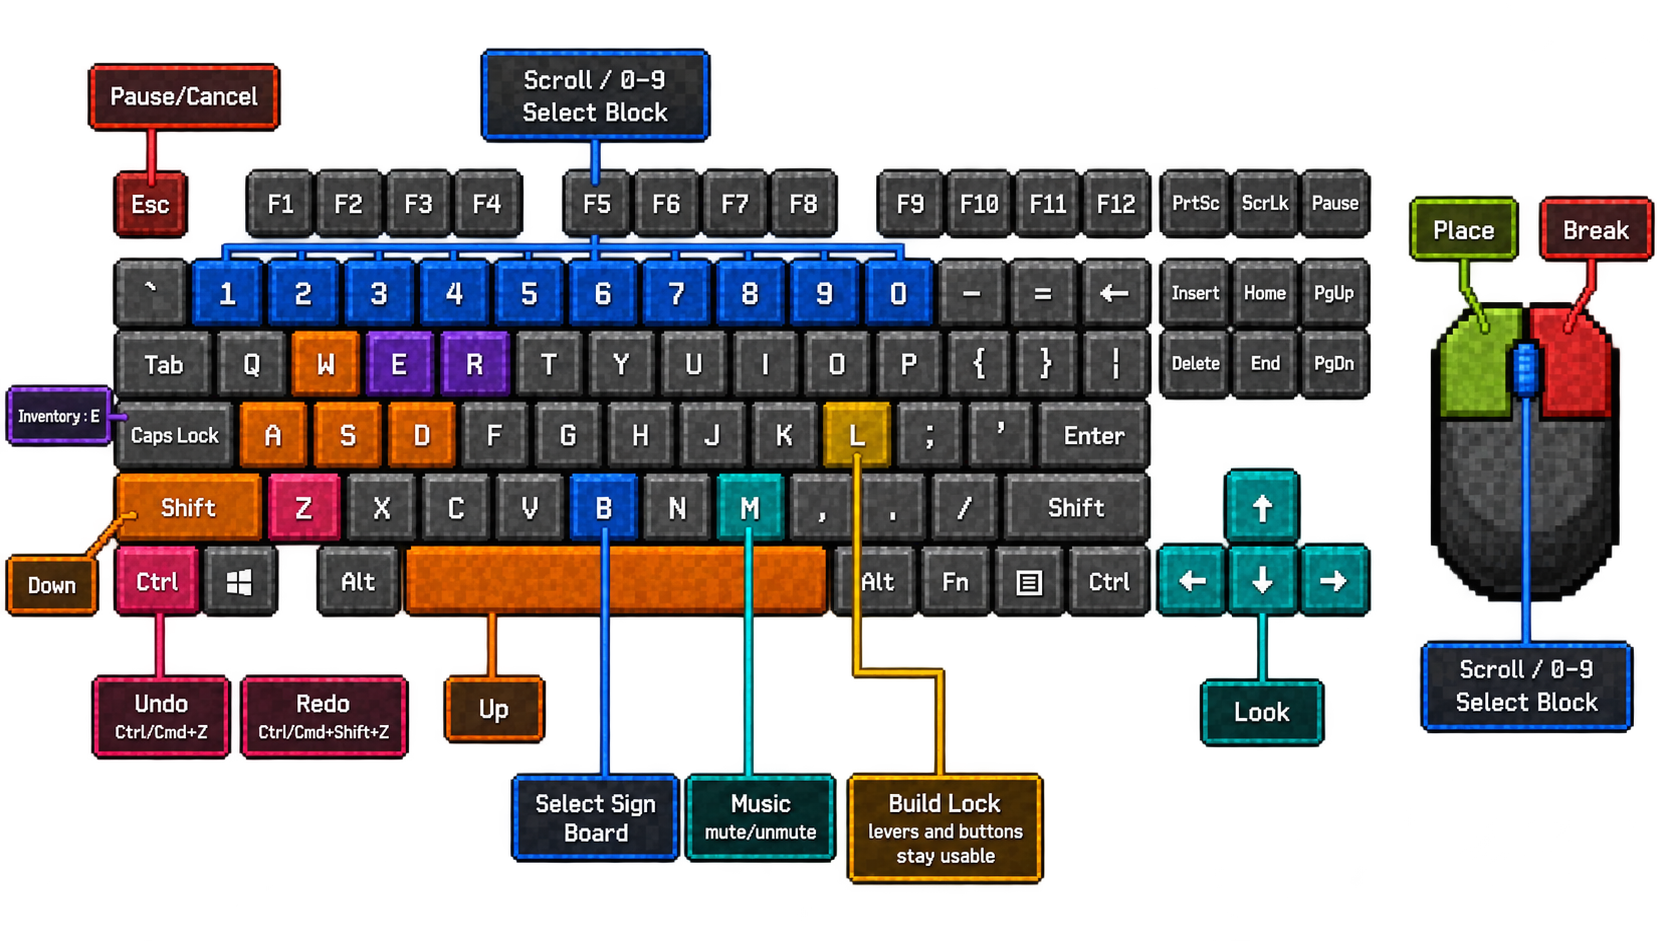
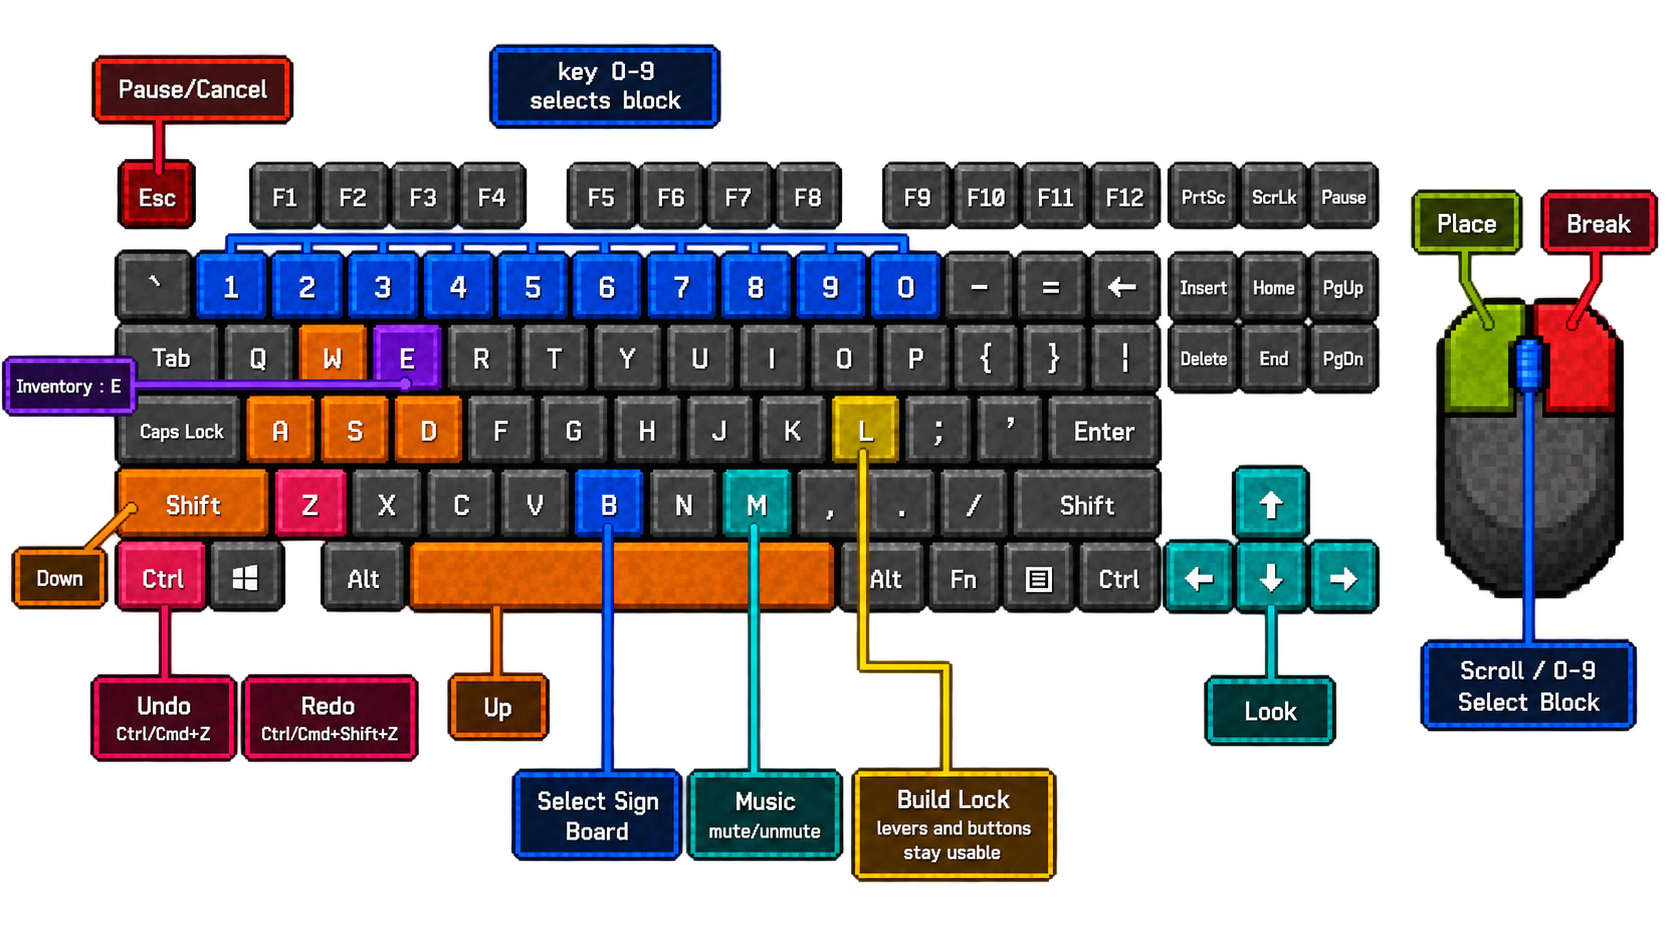
there we go to github

diff --git a/src/ui/BuildArenaPage.tsx b/src/ui/BuildArenaPage.tsx
@@ -547,7 +547,7 @@ export function BuildArenaPage() {
           >
             <SidebarToggleIcon />
           </button>
-          <button className="open-3d-button" data-tooltip="Play" onClick={() => goToPlaySpace("place")} type="button">Open in Minecraft</button>
+          <button className="open-3d-button" data-tooltip="Play" onClick={() => goToPlaySpace("place")} type="button">Open in 3D World</button>
         </div>
       </header>
 
